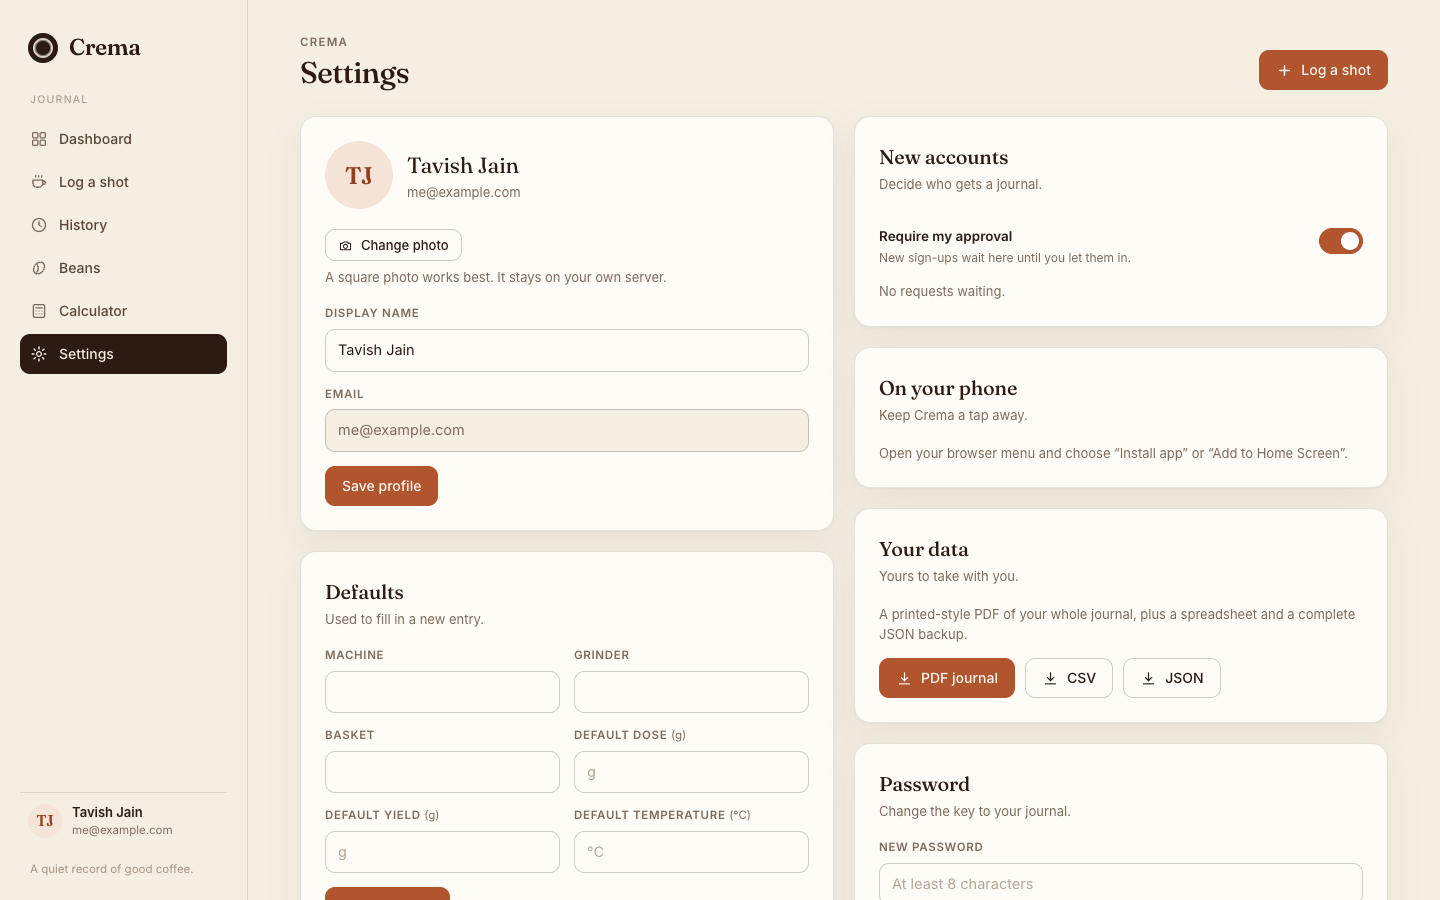
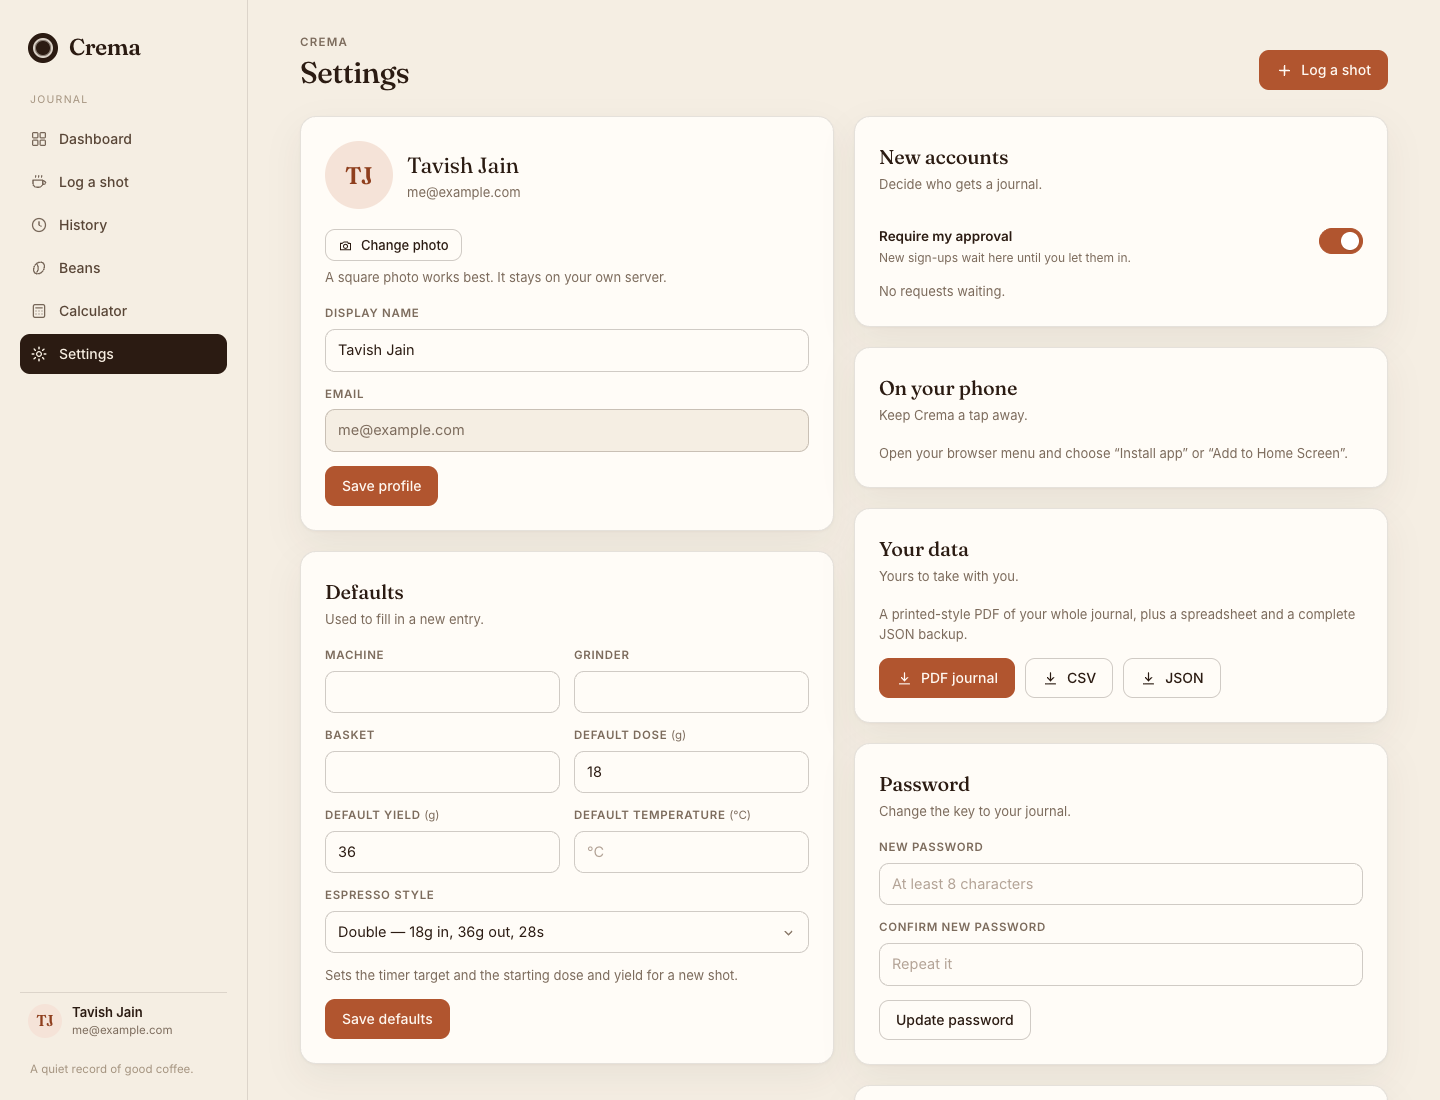
1.0.1: espresso styles drive the timer and the advice
The brew timer now opens with a style row — ristretto, single, double,
lungo. Choosing one retargets the timer and fills a starting dose and
yield for that style, so the numbers and the clock agree before the first
gram lands.

The dial-in notes judge the shot against the chosen style rather than one
universal 1:2 double: ratio windows, shot-time windows, and expected flow
all move with the style, and the tips quote the target ratio by name.

Settings gains an espresso-style default that pre-fills the timer target
and the starting recipe for a new shot. Stored in preferences, validated
server-side.

Tightened the style chips to a 2x2 grid on narrow screens and refreshed
the screenshots.

diff --git a/static/app.js b/static/app.js
@@ -104,48 +104,99 @@
   }
 
   // Turns the three numbers people actually know (dose, yield, time) into
-  // plain advice they can act on before the next shot.
+  // plain advice they can act on before the next shot. A style (ristretto,
+  // single, double, lungo) moves the windows that advice is measured against.
   var ESPRESSO_METHODS = ["espresso", "latte", "cappuccino", "flat white"];
 
-  function dialInNotes(doseValue, yieldValue, timeValue, method) {
+  var ESPRESSO_STYLES = [
+    { id: "ristretto", label: "Ristretto", dose: 18, yield: 24, time: 22,
+      ratio: [1.15, 1.6], window: [18, 28], flow: 1.1 },
+    { id: "single", label: "Single", dose: 9, yield: 18, time: 25,
+      ratio: [1.8, 2.2], window: [22, 32], flow: 0.72 },
+    { id: "double", label: "Double", dose: 18, yield: 36, time: 28,
+      ratio: [1.8, 2.2], window: [25, 32], flow: 1.3 },
+    { id: "lungo", label: "Lungo", dose: 18, yield: 50, time: 38,
+      ratio: [2.5, 3.5], window: [32, 45], flow: 1.3 }
+  ];
+
+  function styleById(id) {
+    for (var i = 0; i < ESPRESSO_STYLES.length; i++) {
+      if (ESPRESSO_STYLES[i].id === id) return ESPRESSO_STYLES[i];
+    }
+    return null;
+  }
+
+  function styleRecipe(style) {
+    if (!style) return "Choose a style to set the target and starting recipe.";
+    var r = style.yield / style.dose;
+    return style.label + " · " + style.dose + "g in · " + style.yield + "g out · 1:" +
+      (r >= 10 ? Math.round(r) : r.toFixed(1)) + " · about " + style.time + "s";
+  }
+
+  function dialInNotes(doseValue, yieldValue, timeValue, method, styleId) {
     var dose = parseFloat(doseValue);
     var yieldG = parseFloat(yieldValue);
     var time = parseFloat(timeValue);
     var notes = [];
     var isEspresso = ESPRESSO_METHODS.indexOf(method || "espresso") !== -1;
     var ratioValue = dose > 0 && yieldG > 0 ? yieldG / dose : null;
+    var style = styleById(styleId);
+
+    function ratioLabel(value) {
+      return "1:" + (value >= 10 ? Math.round(value) : value.toFixed(1));
+    }
 
     if (!isEspresso) {
       if (ratioValue !== null) {
-        var label = "1:" + (ratioValue >= 10 ? Math.round(ratioValue) : ratioValue.toFixed(1));
-        if (ratioValue < 12) notes.push({ kind: "warn", text: "That is " + label + " — strong for filter. Most pour-over lands around 1:15 to 1:17." });
-        else if (ratioValue > 18) notes.push({ kind: "warn", text: label + " is thin for filter. Try 1:15 to 1:17 and taste again." });
-        else notes.push({ kind: "ok", text: label + " sits in the usual filter range." });
+        var filterRatio = ratioLabel(ratioValue);
+        if (ratioValue < 12) notes.push({ kind: "warn", text: "That is " + filterRatio + " — strong for filter. Most pour-over lands around 1:15 to 1:17." });
+        else if (ratioValue > 18) notes.push({ kind: "warn", text: filterRatio + " is thin for filter. Try 1:15 to 1:17 and taste again." });
+        else notes.push({ kind: "ok", text: filterRatio + " sits in the usual filter range." });
       }
       return notes;
     }
 
+    // With no style chosen, fall back to the classic 1:2 double.
+    var lowRatio = style ? style.ratio[0] : 1.7;
+    var highRatio = style ? style.ratio[1] : 2.4;
+    var lowTime = style ? style.window[0] : 25;
+    var highTime = style ? style.window[1] : 32;
+    var article = style ? "a " + style.label.toLowerCase() : "an espresso";
+    var aim = "1:" + lowRatio + "–" + highRatio;
+    var doseNote = style
+      ? " — " + style.dose + "g in to " + Math.round(style.dose * lowRatio) + "–" + Math.round(style.dose * highRatio) + "g out"
+      : "";
+
     if (ratioValue !== null) {
-      if (ratioValue < 1.7) notes.push({ kind: "warn", text: "Yield is 1:" + ratioValue.toFixed(1) + " — short of the 1:2 baseline. Expect a syrupy, under-extracted shot; let it run longer." });
-      else if (ratioValue > 2.4) notes.push({ kind: "warn", text: "Yield is 1:" + ratioValue.toFixed(1) + " — long for a double. It usually tastes thin and bitter; stop a little earlier." });
-      else notes.push({ kind: "ok", text: "Yield is 1:" + ratioValue.toFixed(1) + ", close to the classic 1:2." });
+      var shotRatio = ratioLabel(ratioValue);
+      if (ratioValue < lowRatio) {
+        notes.push({ kind: "warn", text: shotRatio + " is short for " + article + " (" + aim + doseNote + "). Let it run longer; short shots taste sharp and thin." });
+      } else if (ratioValue > highRatio) {
+        notes.push({ kind: "warn", text: shotRatio + " is long for " + article + " (" + aim + doseNote + "). Stop a little earlier; long shots turn watery and bitter." });
+      } else {
+        notes.push({ kind: "ok", text: shotRatio + " is where " + article + " should land (" + aim + ")." });
+      }
     }
 
     if (time > 0) {
-      if (time < 20) notes.push({ kind: "warn", text: time.toFixed(1) + "s is a fast shot. Grind finer in small steps and keep the dose steady." });
-      else if (time > 32) notes.push({ kind: "warn", text: time.toFixed(1) + "s is slow. Grind coarser a notch; if it still stalls, check for channeling." });
-      else if (time >= 25 && time <= 30) notes.push({ kind: "ok", text: time.toFixed(1) + "s sits right in the 25–30s window." });
-      else notes.push({ kind: "ok", text: time.toFixed(1) + "s is close to the usual window — a small grind tweak if the taste asks for it." });
+      if (time < lowTime) {
+        notes.push({ kind: "warn", text: time.toFixed(1) + "s is quick for " + article + " (" + lowTime + "–" + highTime + "s). Grind finer in small steps and keep the dose steady." });
+      } else if (time > highTime) {
+        notes.push({ kind: "warn", text: time.toFixed(1) + "s runs long for " + article + " (" + lowTime + "–" + highTime + "s). Coarsen the grind a notch; if it still stalls, check for channeling." });
+      } else {
+        notes.push({ kind: "ok", text: time.toFixed(1) + "s sits in the " + lowTime + "–" + highTime + "s window for " + article + "." });
+      }
     }
 
     if (ratioValue !== null && time > 0) {
-      if (time < 20 && ratioValue < 1.8) notes.push({ kind: "tip", text: "Fast and short together point at the grind: go finer before changing anything else." });
-      if (time > 32 && ratioValue > 2.2) notes.push({ kind: "tip", text: "Slow and long: coarsen the grind, then stop the shot at 1:2." });
-      if (time < 20 && ratioValue > 2.4) notes.push({ kind: "tip", text: "Fast but long means the grind is too coarse — tightening it fixes both numbers at once." });
-      if (time > 32 && ratioValue < 1.8) notes.push({ kind: "tip", text: "Slow but short usually means channeling or a choked puck. Work on puck prep before the grind." });
+      if (time < lowTime && ratioValue < lowRatio) notes.push({ kind: "tip", text: "Fast and short together point at the grind: go finer before changing anything else." });
+      if (time > highTime && ratioValue > highRatio) notes.push({ kind: "tip", text: "Slow and long: coarsen the grind, then stop the shot at " + aim + "." });
+      if (time < lowTime && ratioValue > highRatio) notes.push({ kind: "tip", text: "Fast but long means the grind is too coarse — tightening it fixes both numbers at once." });
+      if (time > highTime && ratioValue < lowRatio) notes.push({ kind: "tip", text: "Slow but short usually means channeling or a choked puck. Work on puck prep before the grind." });
       var flow = yieldG / time;
-      if (flow < 0.8) notes.push({ kind: "tip", text: "Flow is about " + flow.toFixed(1) + " g/s — restrained, so expect a heavier body." });
-      else if (flow > 1.8) notes.push({ kind: "tip", text: "Flow is about " + flow.toFixed(1) + " g/s — quick, so the puck is offering little resistance." });
+      var expected = style ? style.flow : 1.3;
+      if (flow < expected * 0.7) notes.push({ kind: "tip", text: "Flow is about " + flow.toFixed(1) + " g/s, well under the " + expected.toFixed(1) + " g/s " + article + " usually shows — expect a heavier body." });
+      else if (flow > expected * 1.35) notes.push({ kind: "tip", text: "Flow is about " + flow.toFixed(1) + " g/s, quicker than the " + expected.toFixed(1) + " g/s " + article + " usually shows — the puck is offering little resistance." });
     }
 
     return notes.slice(0, 6);
@@ -956,9 +1007,13 @@
     var tagList = TAGS.slice();
     chosenTags.forEach(function (tag) { if (tagList.indexOf(tag) === -1) tagList.push(tag); });
 
+    // A saved style supplies the timer target and, for a fresh shot, the
+    // starting dose and yield. Explicit defaults still win.
+    var chosenStyle = styleById(prefs.espresso_style);
+
     var values = {
-      dose: source ? source.dose_g : prefs.dose_g,
-      yield: source ? source.yield_g : prefs.yield_g,
+      dose: source ? source.dose_g : (prefs.dose_g !== null && prefs.dose_g !== undefined && prefs.dose_g !== "" ? prefs.dose_g : (chosenStyle ? chosenStyle.dose : null)),
+      yield: source ? source.yield_g : (prefs.yield_g !== null && prefs.yield_g !== undefined && prefs.yield_g !== "" ? prefs.yield_g : (chosenStyle ? chosenStyle.yield : null)),
       time: source ? source.time_s : null,
       grind: source ? source.grind : "",
       temp: source ? source.temp_c : prefs.temp_c,
@@ -993,8 +1048,15 @@
             '<section class="form-card card timer-card">' +
               '<div class="timer-head">' +
                 '<div><h3>Brew timer</h3><p class="sub">Start it as the pump kicks in.</p></div>' +
-                '<label class="timer-target" for="timer-target">Target <input type="text" inputmode="decimal" id="timer-target" value="27" aria-label="Target shot time in seconds"> s</label>' +
+                '<label class="timer-target" for="timer-target">Target <input type="text" inputmode="decimal" id="timer-target" value="' + (chosenStyle ? chosenStyle.time : 27) + '" aria-label="Target shot time in seconds"> s</label>' +
               '</div>' +
+              '<div class="seg timer-styles" id="style-seg" role="group" aria-label="Espresso style">' +
+                ESPRESSO_STYLES.map(function (style) {
+                  var active = chosenStyle && chosenStyle.id === style.id;
+                  return '<button type="button" class="' + (active ? "active" : "") + '" data-style="' + esc(style.id) + '">' + esc(style.label) + '</button>';
+                }).join("") +
+              '</div>' +
+              '<p class="timer-preset" id="timer-preset">' + esc(styleRecipe(chosenStyle)) + '</p>' +
               '<div class="timer-display" id="timer-display">0:00.0</div>' +
               '<div class="timer-controls">' +
                 '<button type="button" class="btn btn-primary timer-btn" id="timer-toggle">' + icon("play") + '<span>Start</span></button>' +
@@ -1157,6 +1219,25 @@
       });
     });
 
+    // espresso style — sets the timer target and the starting recipe
+    var activeStyle = chosenStyle ? chosenStyle.id : "";
+
+    $$("#style-seg button").forEach(function (btn) {
+      btn.addEventListener("click", function () {
+        var style = styleById(btn.dataset.style);
+        activeStyle = style ? style.id : "";
+        $$("#style-seg button").forEach(function (b) { b.classList.toggle("active", b === btn); });
+        if (style) {
+          $("#timer-target").value = style.time;
+          $("#dose_g").value = style.dose;
+          $("#yield_g").value = style.yield;
+        }
+        $("#timer-preset").textContent = styleRecipe(style);
+        updateReadout();
+        paintTimer();
+      });
+    });
+
     // live ratio / flow
     function updateReadout() {
       var dose = parseFloat($("#dose_g").value);
@@ -1177,7 +1258,7 @@
       var panel = $("#dialin");
       var list = $("#dialin-list");
       if (!panel || !list) return;
-      var notes = dialInNotes($("#dose_g").value, $("#yield_g").value, $("#time_s").value, method);
+      var notes = dialInNotes($("#dose_g").value, $("#yield_g").value, $("#time_s").value, method, activeStyle);
       panel.hidden = !notes.length;
       list.innerHTML = notes.map(function (note) {
         return '<li class="' + esc(note.kind || "tip") + '">' + esc(note.text) + '</li>';
@@ -1922,6 +2003,16 @@
               field("pref-dose", "Default dose", prefs.dose_g, "g", null, "dose_g") +
               field("pref-yield", "Default yield", prefs.yield_g, "g", null, "yield_g") +
               field("pref-temp", "Default temperature", prefs.temp_c, "°C", null, "temp_c") +
+              '<div class="field span-2"><label for="pref-style">Espresso style</label>' +
+                '<select id="pref-style">' +
+                  '<option value=""' + (prefs.espresso_style ? "" : " selected") + '>No preset</option>' +
+                  ESPRESSO_STYLES.map(function (style) {
+                    return '<option value="' + esc(style.id) + '"' + (prefs.espresso_style === style.id ? " selected" : "") + '>' +
+                      esc(style.label) + ' — ' + style.dose + 'g in, ' + style.yield + 'g out, ' + style.time + 's</option>';
+                  }).join("") +
+                '</select>' +
+                '<p class="small muted" style="margin-top:6px">Sets the timer target and the starting dose and yield for a new shot.</p>' +
+              '</div>' +
               '<div class="span-2"><button class="btn btn-primary" type="submit">Save defaults</button></div>' +
             '</form>' +
           '</section>' +
@@ -1953,7 +2044,7 @@
             '<div class="about-list">' +
               '<div><strong>Crema</strong> · a small coffee journal</div>' +
               '<div>Stored on this home server’s own drive, available to any device you sign in from.</div>' +
-              '<div>Version 1.0</div>' +
+              '<div>Version 1.0.1 · espresso styles</div>' +
             '</div>' +
             '<div class="divider"></div>' +
             '<button class="btn btn-danger" id="sign-out">' + icon("logout") + 'Sign out</button>' +
@@ -2025,7 +2116,8 @@
               basket: $("#pref-basket").value,
               dose_g: $("#pref-dose").value || null,
               yield_g: $("#pref-yield").value || null,
-              temp_c: $("#pref-temp").value || null
+              temp_c: $("#pref-temp").value || null,
+              espresso_style: $("#pref-style").value
             }
           }
         });
@@ -2034,6 +2126,16 @@
         toast("Defaults saved");
       } catch (err) { busy(button, false); toast(err.message, "error"); }
     });
+
+    var prefStyle = $("#pref-style");
+    if (prefStyle) {
+      prefStyle.addEventListener("change", function () {
+        var style = styleById(prefStyle.value);
+        if (!style) return;
+        if (!$("#pref-dose").value) $("#pref-dose").value = style.dose;
+        if (!$("#pref-yield").value) $("#pref-yield").value = style.yield;
+      });
+    }
 
     $("#password-form").addEventListener("submit", async function (event) {
       event.preventDefault();

diff --git a/static/styles.css b/static/styles.css
@@ -1097,6 +1097,14 @@ input:disabled {
   background: var(--paper); color: var(--ink);
   font-family: var(--sans); font-size: 14px; font-weight: 600;
 }
+.timer-styles { margin-top: 16px; }
+.timer-styles button { min-width: 88px; }
+.timer-preset {
+  margin: 10px 0 0;
+  font-size: 12.5px;
+  color: var(--muted);
+  font-variant-numeric: tabular-nums;
+}
 .timer-display {
   font-family: var(--serif);
   font-size: clamp(46px, 9vw, 66px);
@@ -1132,3 +1140,7 @@ input:disabled {
 .dialin li.ok::before { background: var(--olive); }
 .dialin li.warn::before { background: var(--clay); }
 .dialin li.tip::before { background: var(--clay-deep); }
+
+@media (max-width: 560px) {
+  .timer-styles button { flex: 1 1 calc(50% - 4px); min-width: 0; }
+}

diff --git a/static/sw.js b/static/sw.js
@@ -1,6 +1,6 @@
 /* Crema service worker — network first, with an offline copy of the shell. */
 
-const CACHE = "crema-shell-v4";
+const CACHE = "crema-shell-v5";
 const SHELL = [
   "/",
   "/index.html",

diff --git a/app.py b/app.py
@@ -691,7 +691,9 @@ def update_me():
         prefs = data.get("preferences")
         if not isinstance(prefs, dict):
             return fail("Invalid preferences")
-        allowed = {"machine", "grinder", "basket", "dose_g", "yield_g", "milk_type", "temp_c"}
+        allowed = {"machine", "grinder", "basket", "dose_g", "yield_g", "milk_type", "temp_c",
+                   "espresso_style"}
+        styles = {"", "ristretto", "single", "double", "lungo"}
         cleaned = {}
         for key, value in prefs.items():
             if key not in allowed:
@@ -701,6 +703,11 @@ def update_me():
                     cleaned[key] = clean_number(value, 0, 2000)
                 except ValueError:
                     continue
+            elif key == "espresso_style":
+                style = clean_text(value, 20)
+                if style not in styles:
+                    continue
+                cleaned[key] = style
             else:
                 cleaned[key] = clean_text(value, 120)
         fields.append("preferences = ?")

diff --git a/tests/test_smoke.py b/tests/test_smoke.py
@@ -170,6 +170,22 @@ class CremaSmokeTest(unittest.TestCase):
         self.assertIsNone(removed.get_json()["user"]["avatar"])
         self.assertEqual(self.owner.get("/api/me/avatar").status_code, 404)
 
+    def test_08_espresso_style_preference(self):
+        response = self.owner.patch(
+            "/api/me", json={"preferences": {"espresso_style": "ristretto", "dose_g": 18}}
+        )
+        self.assertEqual(response.status_code, 200, response.get_json())
+        prefs = response.get_json()["user"]["preferences"]
+        self.assertEqual(prefs["espresso_style"], "ristretto")
+        self.assertEqual(prefs["dose_g"], 18)
+
+        # Unknown styles are dropped rather than stored.
+        response = self.owner.patch(
+            "/api/me", json={"preferences": {"espresso_style": "quadruple"}}
+        )
+        self.assertEqual(response.status_code, 200)
+        self.assertNotIn("espresso_style", response.get_json()["user"]["preferences"])
+
 
 if __name__ == "__main__":
     unittest.main()

diff --git a/README.md b/README.md
@@ -25,7 +25,7 @@ No ads, no tracking, no third-party services. Your data stays in a SQLite file o
 ## Features
 
 - **Espresso, milk drinks, filter, cold brew.** Dose, yield, ratio, time, grind, temperature, pressure, pre-infusion, machine, grinder, basket.
-- **Brew timer with dial-in advice.** Start it as the pump kicks in; stopping it fills in shot time. The notes under it read dose, yield, and time together and suggest a grind change or a yield correction in plain words.
+- **Brew timer with dial-in advice.** Pick a style — ristretto, single, double, lungo — and the target time, dose, and yield set themselves to match. Start it as the pump kicks in; stopping it fills in shot time. The notes underneath measure the shot against that style and suggest a grind change or a yield correction in plain words.
 - **Tasting notes that stay useful.** Rating, free-text notes, flavour tags, and five balance sliders (acidity, body, sweetness, bitterness, aftertaste).
 - **Photos.** Attach one photo per shot — the cup, the bag, or the dial-in.
 - **Your own profile picture.** Upload it from settings; it appears in the sidebar and stays on your own disk.
